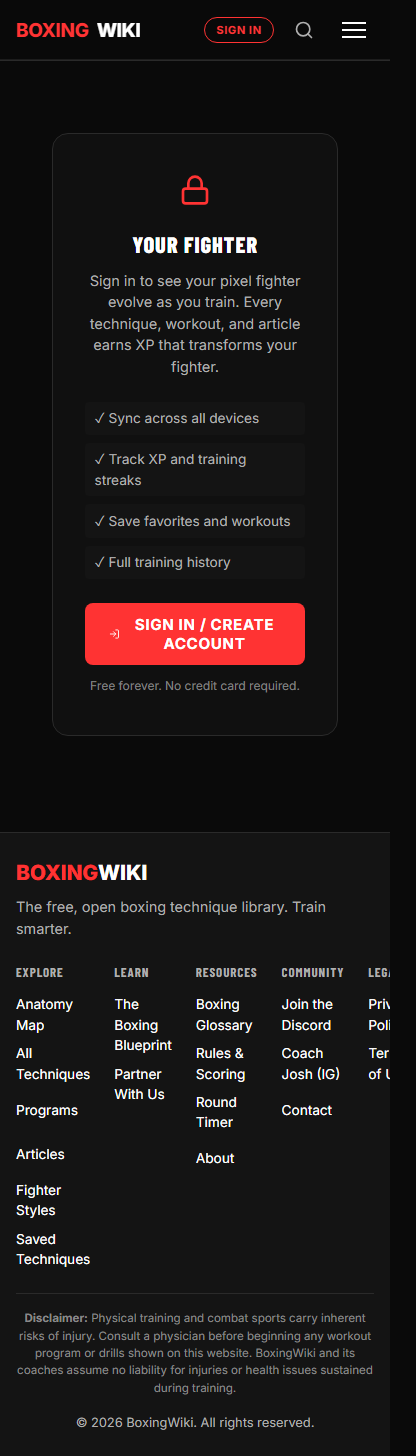
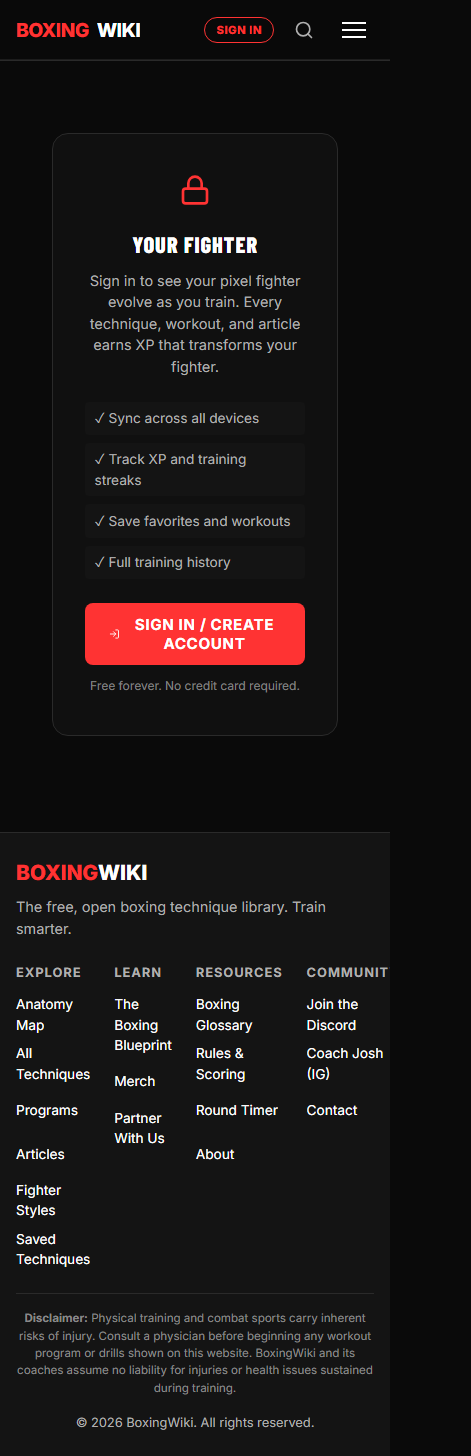
Harden local E2E crawler test and resolve 400 Bad Request image optimization errors with category-fallback.png

diff --git a/tests/crawl-local.spec.ts b/tests/crawl-local.spec.ts
@@ -1,0 +1,125 @@
+import { test, expect } from '@playwright/test';
+
+test.describe('Crawl local site and check for errors', () => {
+  const BASE_URL = 'http://localhost:3000';
+  const visited = new Set<string>();
+  const queue = ['/'];
+  const maxPages = 40;
+
+  test('crawl local server and detect runtime errors, bad requests, or broken pages', async ({ page }) => {
+    test.setTimeout(120000);
+    // Track errors and warnings
+    const consoleErrors: string[] = [];
+    const uncaughtExceptions: Error[] = [];
+    const failedRequests: { url: string; status: number }[] = [];
+
+    page.on('console', msg => {
+      if (msg.type() === 'error') {
+        consoleErrors.push(`[Console Error] ${msg.text()} at ${page.url()}`);
+      }
+    });
+
+    page.on('pageerror', err => {
+      uncaughtExceptions.push(err);
+    });
+
+    page.on('requestfailed', request => {
+      const url = request.url();
+      if (!url.startsWith(BASE_URL)) {
+        return;
+      }
+      const failure = request.failure();
+      if (failure?.errorText === 'net::ERR_ABORTED' || failure?.errorText?.includes('aborted')) {
+        return;
+      }
+      failedRequests.push({
+        url,
+        status: 0, // Request failed completely (e.g. network error)
+      });
+    });
+
+    page.on('response', response => {
+      const status = response.status();
+      const url = response.url();
+      // Only care about local app resources, ignore external tracker/analytics requests if any
+      if (url.startsWith(BASE_URL) && status >= 400) {
+        failedRequests.push({ url, status });
+      }
+    });
+
+    let pagesCrawled = 0;
+
+    while (queue.length > 0 && pagesCrawled < maxPages) {
+      const currentPath = queue.shift()!;
+      const fullUrl = `${BASE_URL}${currentPath}`;
+
+      if (visited.has(fullUrl)) continue;
+      visited.add(fullUrl);
+      pagesCrawled++;
+
+      console.log(`Crawling (${pagesCrawled}): ${fullUrl}`);
+
+      try {
+        const response = await page.goto(fullUrl, { waitUntil: 'load', timeout: 10000 });
+        if (!response) {
+          console.error(`No response for ${fullUrl}`);
+          continue;
+        }
+
+        const status = response.status();
+        expect(status).toBeLessThan(400);
+
+        // Check if there is any clerk redirect to sign-in or similar that we should note
+        const currentUrl = page.url();
+
+        // Parse links if we are still within BASE_URL
+        if (currentUrl.startsWith(BASE_URL)) {
+          const links = await page.locator('a').evaluateAll((anchors: HTMLAnchorElement[]) => {
+            return anchors
+              .map(a => a.getAttribute('href'))
+              .filter((href): href is string => !!href && (href.startsWith('/') || href.startsWith('http://localhost:3000')));
+          });
+
+          for (const link of links) {
+            let path = link;
+            if (path.startsWith(BASE_URL)) {
+              path = path.slice(BASE_URL.length);
+            }
+            // Normalize path (strip query params, hash)
+            const cleanPath = path.split('?')[0].split('#')[0];
+            if (cleanPath && !visited.has(`${BASE_URL}${cleanPath}`) && !queue.includes(cleanPath)) {
+              // Avoid duplicate dynamic routes if we already have too many
+              if (cleanPath.startsWith('/food/') && queue.filter(q => q.startsWith('/food/')).length > 2) continue;
+              if (cleanPath.startsWith('/recipe/') && queue.filter(q => q.startsWith('/recipe/')).length > 2) continue;
+              if (cleanPath.startsWith('/foods/') && queue.filter(q => q.startsWith('/foods/')).length > 2) continue;
+              if (cleanPath.startsWith('/athlete/') && queue.filter(q => q.startsWith('/athlete/')).length > 2) continue;
+              if (cleanPath.startsWith('/athletes/') && queue.filter(q => q.startsWith('/athletes/')).length > 2) continue;
+
+              queue.push(cleanPath);
+            }
+          }
+        }
+      } catch (err) {
+        console.error(`Failed to load ${fullUrl}:`, err);
+      }
+    }
+
+    // Verify no page errors or exceptions
+    console.log(`Crawled ${pagesCrawled} pages.`);
+    if (uncaughtExceptions.length > 0) {
+      console.error('Uncaught exceptions found:');
+      uncaughtExceptions.forEach(err => console.error(err));
+    }
+    if (consoleErrors.length > 0) {
+      console.error('Console errors found:');
+      consoleErrors.forEach(err => console.error(err));
+    }
+    if (failedRequests.length > 0) {
+      console.error('Failed network requests found:');
+      failedRequests.forEach(req => console.error(`${req.url} returned status ${req.status}`));
+    }
+
+    expect(uncaughtExceptions.length).toBe(0);
+    expect(failedRequests.length).toBe(0);
+  });
+});